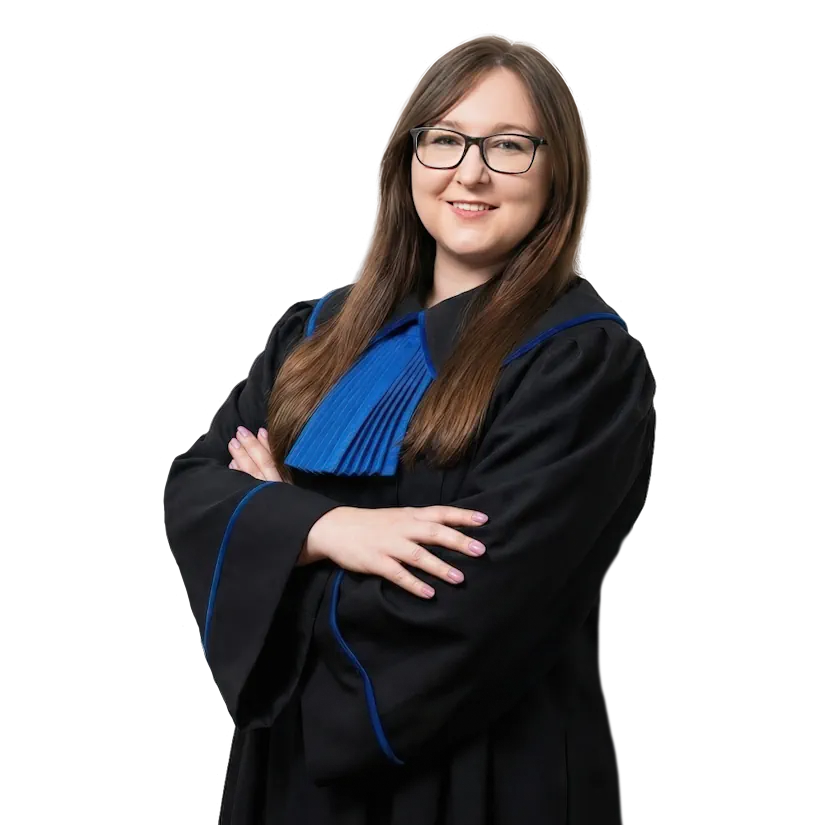
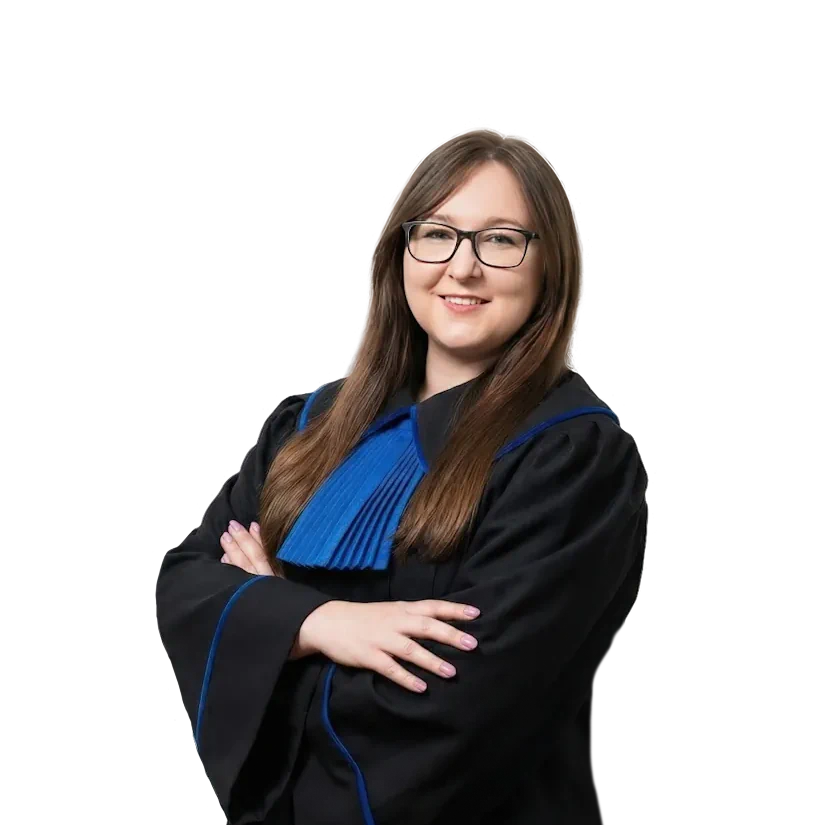
Improved used photos and removed unnecessary ones

Changed region(s): [[0.1818, 0.0303, 0.8182, 1.0]]

diff --git a/wp-content/themes/bylica-kancelaria/src/scss/landing/hero.scss b/wp-content/themes/bylica-kancelaria/src/scss/landing/hero.scss
@@ -12,7 +12,7 @@
       position: absolute;
       bottom: 0;
       left: 0;
-      right: 15px;
+      right: 26px;
       margin-left: auto;
       margin-right: auto;
       z-index: 5;
